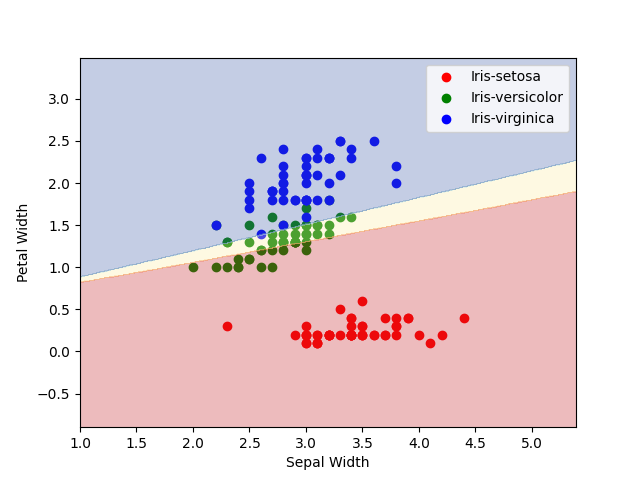
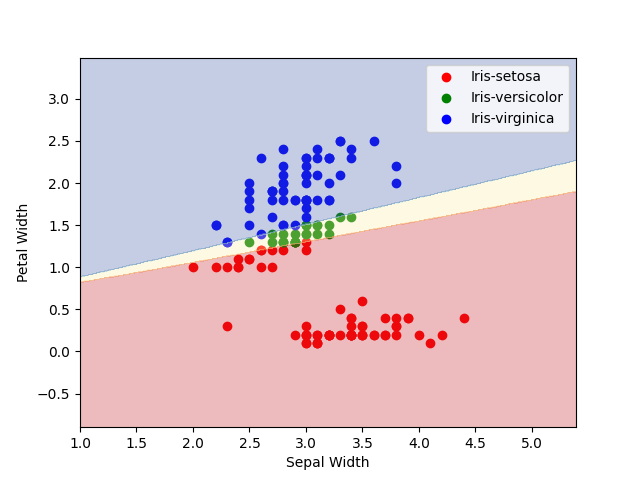
test different neural nets

Changed region(s): [[0.2812, 0.4375, 0.5, 0.5938], [0.4688, 0.4062, 0.5, 0.4375]]

diff --git a/main.py b/main.py
@@ -51,6 +51,8 @@
 import pandas as pd
 import matplotlib.pyplot as plt
 
+import utils
+
 
 def plot_data(dataset, class_column, filename, plot_columns):
     """
@@ -85,7 +87,7 @@ def plot_data(dataset, class_column, filename, plot_columns):
     plt.grid(True)
     plt.savefig(filename)
 
-
+from utils import float_range
 def plot_decision_regions(X, y, predict_func, filename="plot_name"):
     # Define the color map
     colors = ['red', 'green', 'blue']
@@ -109,6 +111,10 @@ def plot_decision_regions(X, y, predict_func, filename="plot_name"):
 
     # Plot the decision boundary by assigning a color to each point in the mesh grid
     plt.contourf(xx, yy, Z, alpha=0.3, cmap=plt.cm.RdYlBu)
+    # plt.scatter(xx, yy, Z, alpha=0.05, cmap=plt.cm.RdYlBu)
+    # for x in float_range(x_min, x_max, 0.1):
+    #     for y in float_range(y_min, y_max, 0.1):
+    #         plt.scatter(x, y, alpha=0.05, c=predict_func(np.array([[x], [y]])))
 
     # Add labels, legend, and show plot
     plt.xlabel('Sepal Width')
@@ -129,7 +135,7 @@ import numpy as np
 from neural_networks.neural_network import NeuralNetwork
 from neural_networks.loss_functions.loss_functions import MeanSquaredErrorLoss
 from neural_networks.layers.dense import Dense
-from neural_networks.layers.activations import SoftPlus, Sigmoid
+from neural_networks.layers.activations import SoftPlus, Sigmoid, ReLU
 
 
 if __name__ == '__main__':
@@ -158,11 +164,9 @@ if __name__ == '__main__':
 
     # neural_network = NeuralNetwork(
     #     layers=[
+    #         Dense(2, 2),
+    #         ReLU(),
     #         Dense(2, 3),
-    #         SoftPlus(),
-    #         Dense(3, 6),
-    #         SoftPlus(),
-    #         Dense(6, 3),
     #         Sigmoid()
     #     ],
     #     loss_function=MeanSquaredErrorLoss()
@@ -174,94 +178,35 @@ if __name__ == '__main__':
     #     epochs=100000
     # )
     #
-    # neural_network.save("neural_network_iris_flower_dataset_v2")
-    neural_network = NeuralNetwork.load("neural_network_iris_flower_dataset_v1")
+    # neural_network.save("neural_network_iris_flower_dataset_v6")
+    neural_network = NeuralNetwork.load("neural_network_iris_flower_dataset_v6")
 
-    print(np.round(neural_network.predict(X[0]), decimals=4))
-    print(np.round(neural_network.predict(X[60]), decimals=4))
-    print(np.round(neural_network.predict(X[140]), decimals=4))
+    print(to_one_hot(neural_network.predict(X[0])))
+    print(to_one_hot(neural_network.predict(X[60])))
+    print(to_one_hot(neural_network.predict(X[140])))
 
     print(X.shape)
     print(y.shape)
 
-    y_pred = []
-    for x in X:
-        y_pred.append(to_one_hot(neural_network.predict(x)))
+    # Define Accuracy
+    y_pred_list = []
+    correct_values_num = 0
+    for x, y_true in zip(X, y):
+        y_pred = to_one_hot(neural_network.predict(x))
+        y_pred_list.append(y_pred)
+        if np.array_equal(y_true.reshape(3), y_pred):
+            correct_values_num += 1
+        # else:
+        #     print(x)
+    print(f"Accuracy: {correct_values_num/len(y)}")
 
-    y_pred = y.reshape(150, 3, 1)
-    # plot_decision_regions(
-    #     X=X,
-    #     y=y_pred,
-    #     predict_func=neural_network.predict,
-    #     filename="nn_prediction_results_v2"
-    # )
 
-    # Plot the data using the plot_data function
-    plot_data(
-        iris_data,
-        'class',
-        'iris_plot_sepal_petal_width.png',
-        plot_columns=['sepal_width', 'petal_width']
+    y_pred_np_array = np.array(y_pred_list).reshape(150, 3, 1)
+    plot_decision_regions(
+        X=X,
+        y=y_pred_np_array,
+        predict_func=lambda x: to_one_hot(neural_network.predict(x)),
+        filename="nn_prediction_results_v6"
     )
 
-    def calculate_metrics(y_true, y_pred):
-        """
-        Calculate accuracy, precision, recall, and F1 score.
-
-        Parameters:
-        y_true (numpy.ndarray): True labels in one-hot encoded format.
-        y_pred (numpy.ndarray): Predicted labels in one-hot encoded format.
-
-        Returns:
-        dict: A dictionary with accuracy, precision, recall, and F1 score.
-        """
-        # Convert one-hot encoded labels to class indices
-        y_true_cls = np.argmax(y_true, axis=1)
-        y_pred_cls = np.argmax(y_pred, axis=1)
-
-        # Number of classes
-        num_classes = y_true.shape[1]
-
-        # Initialize counts
-        true_positive = np.zeros(num_classes)
-        false_positive = np.zeros(num_classes)
-        false_negative = np.zeros(num_classes)
-
-        # Calculate true positives, false positives, and false negatives for each class
-        for i in range(len(y_true_cls)):
-            if y_true_cls[i] == y_pred_cls[i]:
-                true_positive[y_true_cls[i]] += 1
-            else:
-                false_positive[y_pred_cls[i]] += 1
-                false_negative[y_true_cls[i]] += 1
-
-        # Calculate accuracy
-        accuracy = np.sum(true_positive) / len(y_true_cls)
-
-        # Calculate precision, recall, and F1 score for each class
-        precision = np.zeros(num_classes)
-        recall = np.zeros(num_classes)
-        f1_score = np.zeros(num_classes)
-
-        for i in range(num_classes):
-            if true_positive[i] + false_positive[i] > 0:
-                precision[i] = true_positive[i] / (true_positive[i] + false_positive[i])
-            if true_positive[i] + false_negative[i] > 0:
-                recall[i] = true_positive[i] / (true_positive[i] + false_negative[i])
-            if precision[i] + recall[i] > 0:
-                f1_score[i] = 2 * (precision[i] * recall[i]) / (precision[i] + recall[i])
-
-        # Calculate macro-averaged precision, recall, and F1 score
-        precision_macro = np.mean(precision)
-        recall_macro = np.mean(recall)
-        f1_score_macro = np.mean(f1_score)
-
-        return {
-            'accuracy': accuracy,
-            'precision': precision_macro,
-            'recall': recall_macro,
-            'f1_score': f1_score_macro
-        }
-
-    print(calculate_metrics(y, y_pred))
 

diff --git a/neural_networks/layers/activations.py b/neural_networks/layers/activations.py
@@ -25,11 +25,10 @@ class SoftPlus(Activation):
 class Sigmoid(Activation):
     def __init__(self):
         """
-        Initialize the SoftPlus activation layer.
+        Initialize the Sigmoid activation layer.
 
-        The SoftPlus function is defined as log(1 + exp(x)).
-        The derivative (gradient) of the SoftPlus function is exp(x) / (1 + exp(x)).
-        The second derivative of the SoftPlus function is exp(x) / (1 + exp(x))^2.
+        The Sigmoid function is defined as 1 / (1 + np.exp(-x)).
+        The derivative (gradient) of the SoftPlus function is self.sigmoid(x) * (1 - self.sigmoid(x)).
         """
         super().__init__(self.sigmoid, self.sigmoid_prime)
 
@@ -39,3 +38,21 @@ class Sigmoid(Activation):
     def sigmoid_prime(self, x):
         s = self.sigmoid(x)
         return s * (1 - s)
+
+
+class ReLU(Activation):
+    def __init__(self):
+        """
+        Initialize the ReLU activation layer.
+
+        The ReLU function is defined as max(0, x).
+        The derivative (gradient) of the ReLU function is 1 if x > 0, otherwise 0.
+        The second derivative of the ReLU function is 0 for all x.
+        """
+        super().__init__(self.relu, self.relu_prime)
+
+    def relu(self, x):
+        return np.maximum(0, x)
+
+    def relu_prime(self, x):
+        return np.where(x > 0, 1, 0)

diff --git a/utils.py b/utils.py
@@ -1,0 +1,30 @@
+from fractions import Fraction
+import numpy as np
+
+
+def find_multiplier(num):
+    # Convert the float to a Fraction object to access numerator and denominator
+    fraction = Fraction(num).limit_denominator()
+
+    # Extract numerator and denominator
+    numerator = fraction.numerator
+    denominator = fraction.denominator
+
+    # Calculate the least common multiple of numerator and denominator
+    lcm = denominator
+
+    # Find the least common multiple
+    for i in range(1, max(numerator, denominator)):
+        if lcm % numerator == 0:
+            break
+        lcm += denominator
+
+    return lcm
+
+
+def float_range(start: float, stop: float, step: float) -> [float]:
+    multiplier = find_multiplier(step)
+    return [x / multiplier for x in range(int(start*multiplier), int(stop*multiplier), int(step*multiplier))]
+
+if __name__ == '__main__':
+    print(float_range(-2, 2, 0.025))

diff --git a/neural_networks/neural_network.py b/neural_networks/neural_network.py
@@ -29,9 +29,9 @@ class NeuralNetwork:
             error = 0
             for x, y in zip(x_train, y_train):
                 y_pred = self.predict(x)
-
+                # Calculate Error
                 error += self.loss_function.count(y_true=y, y_pred=y_pred)
-
+                # Update Params
                 self.update_params_with_backpropagation(y_true=y, y_pred=y_pred)
             error /= len(x_train)
             loading_bar.update(e, f"Epoch {e}/{epochs}, error={error:.4f}")
